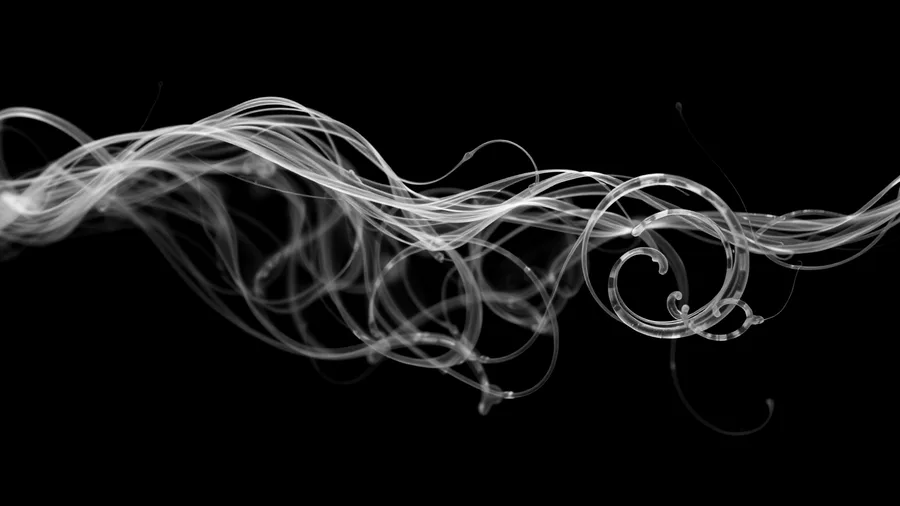
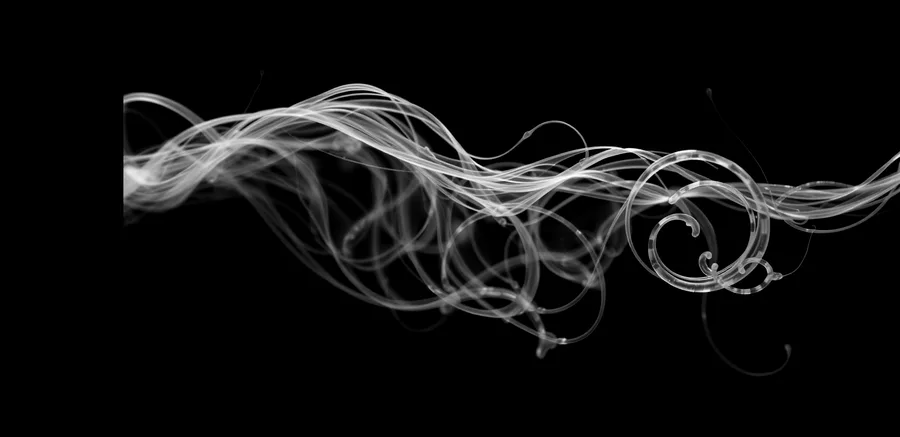
fix(hero): la masa se va a la derecha en el ASSET, no con object-position
Diego: "desplaza más la imagen de deriva hacia la derecha". Probado primero lo
obvio —object-position 78 % → 92 % → 100 %— y las tres salieron IDÉNTICAS.
Causa medida: en `cover`, cuando la imagen es MENOS apaisada que la caja del
hero (1,78 contra 2,06), se escala por ancho, no sobra ancho, y la posición
horizontal no tiene nada que mover. El ajuste estaba en el sitio equivocado.

Arreglo: el desplazamiento se hace en el asset. Lienzo 1780×864 (2,06:1) con el
contenido alineado a la derecha y negro por la izquierda, así la masa cae a la
derecha en cualquier viewport y el texto siempre tiene negro debajo.

- Peso: 37,2 kB (1600 px) y 18,2 kB (900 px) — algo menos que antes.
- Deriva ahora hacia la derecha (+1,6 %), no hacia el texto.
- Anotado en el CSS para que nadie lo deshaga: el encuadre vive en la imagen.
- Revisado a 1280 y a 390: el velo sigue vertical e invertido en móvil, texto
  sobre negro y hebras abajo.

Changed region(s): [[0.0, 0.1785, 1.0, 0.833], [0.84, 0.7735, 0.8711, 0.8032]]

diff --git a/src/styles/web2.css b/src/styles/web2.css
@@ -179,6 +179,11 @@
 
 /* Videoclips: dos piezas destacadas, el enlace ES el reproductor */
 /* ── HERO A SANGRE (24 oct 2026) ────────────────────────────────────────
+   OJO con el encuadre: en `cover`, si la imagen es MENOS apaisada que la caja,
+   no sobra ancho y object-position horizontal NO hace nada (medido: 78 %, 92 %
+   y 100 % salían idénticas). El desplazamiento a la derecha se resuelve en el
+   ASSET: lienzo 1780×864 con el contenido alineado a la derecha y negro a la
+   izquierda. Así la masa cae a la derecha en cualquier viewport.
    La imagen no es un panel pegado: es la página. Por eso la sección NO es .wrap
    —el fondo cubre el ancho del viewport— y el texto vive dentro de un .wrap.
    El velo es la garantía de lectura: negro opaco hasta el 45 %, donde está la copy. */
@@ -196,7 +201,7 @@
   width: 100%;
   height: 100%;
   object-fit: cover;
-  object-position: 78% 50%;
+  object-position: 55% 50%;
   /* Deriva: 44 s de paneo lentísimo, ida y vuelta. Cero JS. */
   animation: deriva 44s ease-in-out infinite alternate;
   will-change: transform;
@@ -223,7 +228,7 @@
     transform: scale(1.04) translate3d(0, 0, 0);
   }
   to {
-    transform: scale(1.1) translate3d(-2.2%, -1%, 0);
+    transform: scale(1.1) translate3d(1.6%, -1%, 0);
   }
 }
 
